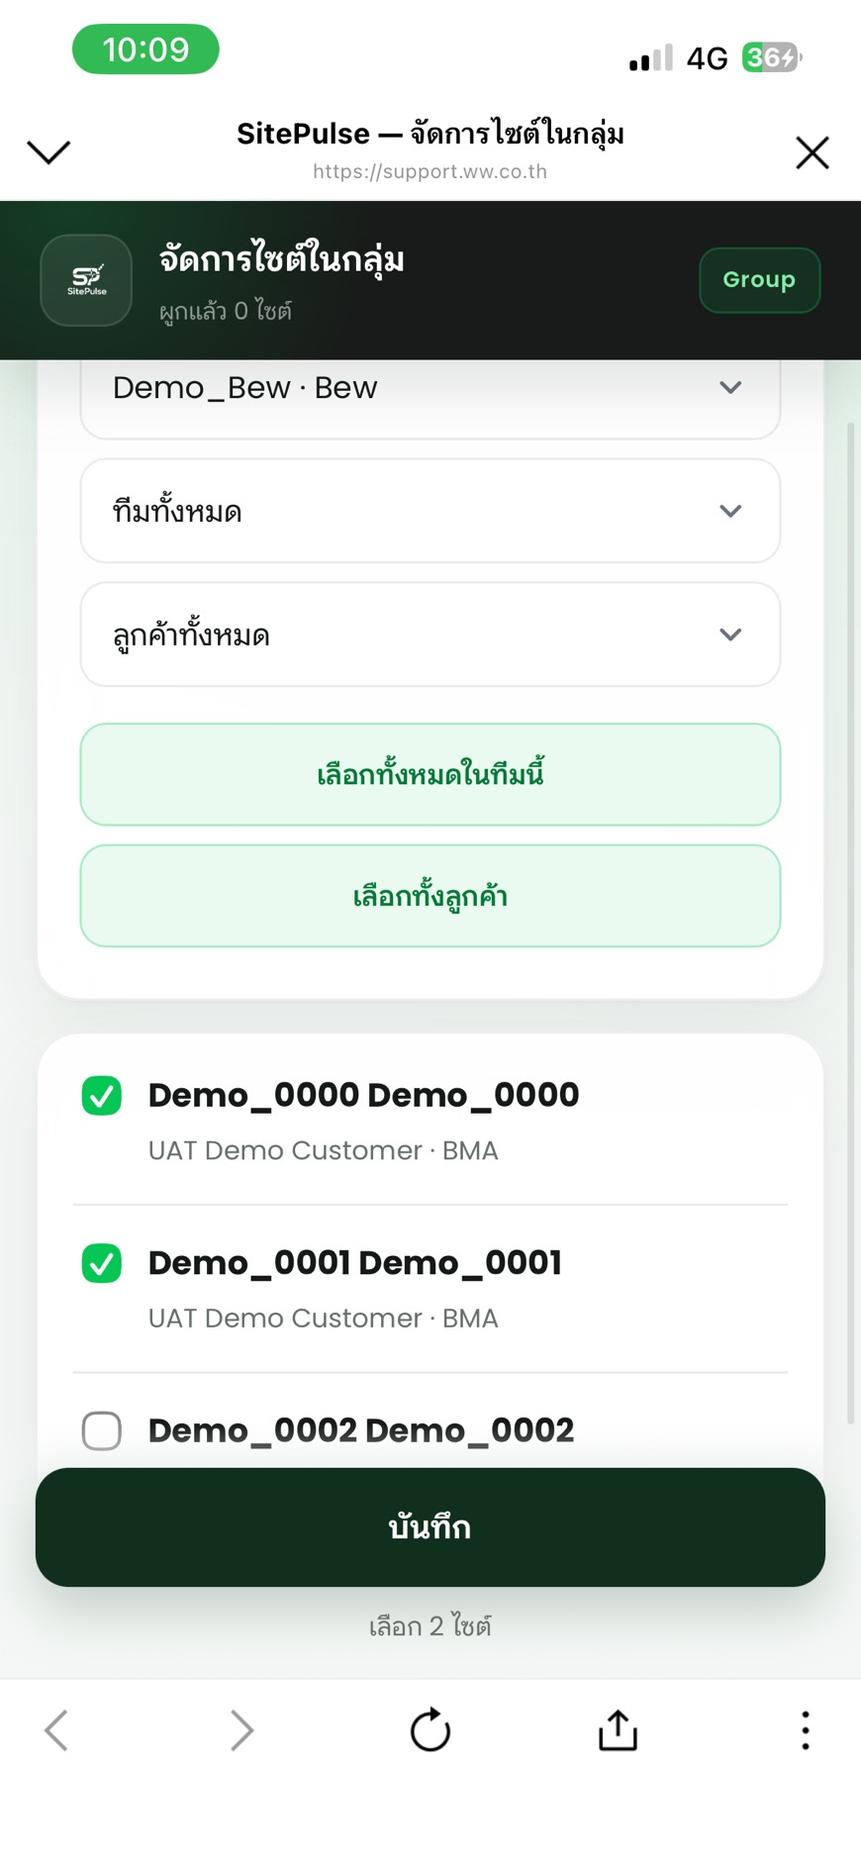
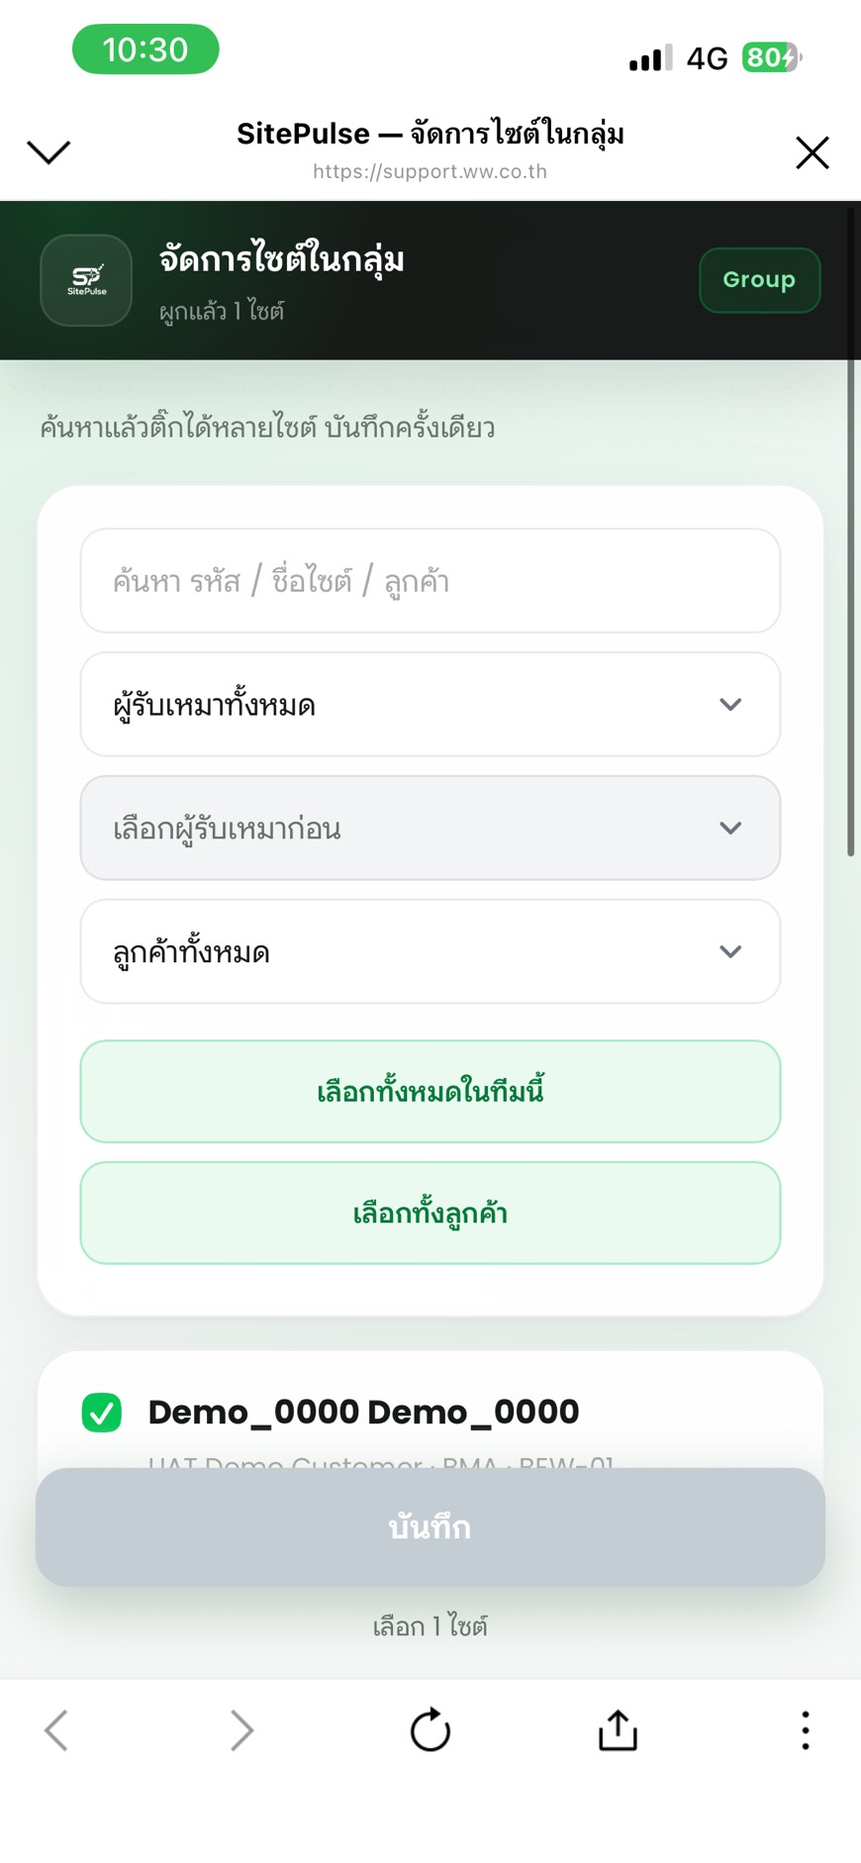
Update index.html with revised Check-In and Check-Out instructions; add new images for technician guides and enhance existing image captions for better clarity.

diff --git a/index.html b/index.html
@@ -529,11 +529,11 @@
     <header class="hero">
       <div class="eyebrow">SitePulse · คู่มือช่าง</div>
       <h1>วันทดสอบ (D-Day) ลำดับ 4–10</h1>
-      <p><b style="color:#7dffa8">งานของช่างจบที่ขั้น 8 (ออกงาน)</b> — ใช้แค่ LINE · ขั้น 5 / 7 / 9 / 10
+      <p><b style="color:#7dffa8">งานของช่างจบที่ขั้น 8 (ออกงาน)</b> — ใช้ LINE และหน้า LIFF · ขั้น 5 / 9 / 10
         เป็นของคนอื่นหรือระบบ · ตรวจงานเป็น <b style="color:#c4b5fd">Inspector → RPM</b>
         (เข้าคิวตรวจเมื่อปิดงาน 100% เท่านั้น)</p>
       <div class="roles">
-        <span class="pill you">เขียว = ช่างทำเอง (4, 6, 8)</span>
+        <span class="pill you">เขียว = ช่างทำเอง (4, 6, 7, 8)</span>
         <span class="pill other">อื่น = Admin / บอท / Inspector / RPM / ผู้บริหาร</span>
       </div>
     </header>
@@ -550,6 +550,10 @@
             <div>เข้างาน (Check-In)<div class="who-line">เลือกไซต์ · ติ๊กงาน · เปิดนอก LINE ได้ · ตำแหน่ง · % · รูปครบ 3 รูป</div>
             </div>
           </li>
+          <li><span class="tag">7</span>
+            <div>ดูผลใน LIFF / ดูประวัติ<div class="who-line">เห็นผลสำเร็จในหน้า LIFF · กลับแชทกดดูประวัติได้</div>
+            </div>
+          </li>
           <li><span class="tag">8</span>
             <div>ออกงาน (Check-Out) ← จบงานช่างที่นี่<div class="who-line">% ตามจริงได้ · ปิด 100% ต้องแนบครบ · ถูกส่งคืนค่อยเข้างานใหม่</div>
             </div>
@@ -561,10 +565,6 @@
         <ul>
           <li><span class="tag">5</span>
             <div>สร้างกลุ่ม Hub · ผูกไซต์ · อนุมัติช่าง<div class="who-line">Admin สร้างกลุ่ม+ลากบอท+ติ๊กไซต์ · Admin อนุมัติ (ระบบผูกทีมตามไซต์ที่ช่างเลือก) · ช่างเข้ากลุ่ม Hub</div>
-            </div>
-          </li>
-          <li><span class="tag bot">7</span>
-            <div>แจ้งกลุ่ม + แชทช่าง<div class="who-line">บอทส่ง Check-In/Out ทั้งกลุ่ม Hub และ LINE ส่วนตัวช่าง</div>
             </div>
           </li>
           <li><span class="tag rpm">9</span>
@@ -589,8 +589,8 @@
       <div class="flow-item you">
         <div class="n">6</div>Check-In<span class="who">ช่าง</span>
       </div>
-      <div class="flow-item">
-        <div class="n">7</div>แจ้งกลุ่ม+ช่าง<span class="who">บอท</span>
+      <div class="flow-item you">
+        <div class="n">7</div>ผล / ประวัติ<span class="who">ช่าง · LIFF</span>
       </div>
       <div class="flow-item you">
         <div class="n">8</div>Check-Out<span class="who">ช่าง · จบ</span>
@@ -683,26 +683,32 @@
           <li>สร้าง <b>กลุ่ม LINE</b> สำหรับ Hub / ไซต์นั้น</li>
           <li>ลากหรือเชิญ <b>Bot SitePulse</b> เข้ากลุ่ม</li>
           <li>ในกลุ่ม พิมพ์ <b>เมนู</b> → กด <b>เปิดหน้าจัดการไซต์</b> (บอทส่งลิงก์)</li>
-          <li>ในหน้าเว็บ: กรองผู้รับเหมา/ทีมได้ → <b>ติ๊กไซต์</b> ที่ต้องการ → กด <b>บันทึก</b></li>
+          <li>หน้า <b>จัดการไซต์ในกลุ่ม</b>: ค้นหาด้วยรหัส / ชื่อไซต์ / ลูกค้า หรือกรองผู้รับเหมา → ทีม → ลูกค้า</li>
+          <li><b>ติ๊กไซต์ที่จะเพิ่ม</b> ได้หลายไซต์ · คงติ๊กไซต์เดิมที่ยังต้องการไว้ → กด <b>บันทึก</b> ครั้งเดียว</li>
+          <li>เห็นหน้า <b>บันทึกแล้ว</b> พร้อมจำนวนไซต์รวม → กลับกลุ่ม LINE เพื่อตรวจข้อความ <b>บันทึกไซต์ในกลุ่มแล้ว</b> ซึ่งแสดงไซต์ที่เพิ่มและไซต์ในกลุ่มตอนนี้</li>
           <li>ถ้าต้องการลบไซต์ออกจากกลุ่ม: เข้าหน้าจัดการไซต์อีกครั้ง → <b>เอาติ๊กออก</b> → กด <b>บันทึก</b></li>
         </ol>
-        <div class="infobox">ผูกไซต์ทำผ่านหน้าลิงก์ (ติ๊กแล้วบันทึก) — <b>ไม่ต้องพิมพ์รหัสผู้รับเหมาหาบอท</b> · กรองตามผู้รับเหมาในหน้านั้นได้</div>
+        <div class="infobox">ผูกไซต์ทำผ่านหน้าลิงก์ (ติ๊กแล้วบันทึก) — <b>ไม่ต้องพิมพ์รหัสผู้รับเหมาหาบอท</b> · เลือกหลายไซต์ได้ หรือใช้ปุ่ม <b>เลือกทั้งหมดในทีมนี้ / เลือกทั้งลูกค้า</b> · ตรวจรายการที่เลือกก่อนบันทึก</div>
         <div class="shots">
           <figure class="shot">
             <img src="technician-guide-shots/admin-choose-bot.jpg" alt="เลือก Bot SitePulse">
             <figcaption class="cap">ลาก/เชิญบอทเข้ากลุ่ม<small>ค้นหา Bot SitePulse</small></figcaption>
           </figure>
           <figure class="shot">
-            <img src="technician-guide-shots/admin-group-menu.jpg" alt="เมนูกลุ่ม / ลิงก์จัดการไซต์">
-            <figcaption class="cap">เมนูในกลุ่ม<small>กด “เปิดหน้าจัดการไซต์”</small></figcaption>
+            <img src="technician-guide-shots/admin-group-menu.jpg" alt="พิมพ์เมนูในกลุ่ม LINE เพื่อเปิดหน้าจัดการไซต์">
+            <figcaption class="cap">1 · เปิดจากกลุ่ม LINE<small>พิมพ์ “เมนู” → กด “เปิดหน้าจัดการไซต์”</small></figcaption>
           </figure>
           <figure class="shot">
-            <img src="technician-guide-shots/admin-group-liff-selected.jpg" alt="ติ๊กหลายไซต์">
-            <figcaption class="cap">หน้าจัดการไซต์<small>กรองได้ · ติ๊กแล้วบันทึก = ผูก · เอาติ๊กออกแล้วบันทึก = ลบ</small></figcaption>
+            <img src="technician-guide-shots/admin-group-liff-selected.jpg" alt="หน้าจัดการไซต์ในกลุ่ม พร้อมค้นหาและตัวกรองผู้รับเหมา ทีม ลูกค้า">
+            <figcaption class="cap">2 · ค้นหาและติ๊กไซต์<small>เลือกได้หลายไซต์ · คงไซต์เดิมที่ต้องการไว้ · เพิ่มไซต์แล้วกด “บันทึก”</small></figcaption>
           </figure>
           <figure class="shot">
-            <img src="technician-guide-shots/line-bot-group-sites-saved.jpg" alt="บอทยืนยันในกลุ่ม">
-            <figcaption class="cap">บอทยืนยันในกลุ่ม<small>รายการไซต์ที่ผูกแล้ว</small></figcaption>
+            <img src="technician-guide-shots/admin-group-liff-save-success.jpg" alt="หน้าบันทึกแล้ว รวม 2 ไซต์ในกลุ่ม">
+            <figcaption class="cap">3 · บันทึกสำเร็จในหน้าเว็บ<small>แสดงจำนวนไซต์รวมในกลุ่ม · ตัวอย่างรวม 2 ไซต์</small></figcaption>
+          </figure>
+          <figure class="shot">
+            <img src="technician-guide-shots/line-bot-group-sites-saved.jpg" alt="บอทแจ้งบันทึกไซต์ในกลุ่มแล้ว พร้อมไซต์ที่เพิ่มและรายการไซต์ปัจจุบัน">
+            <figcaption class="cap">4 · ตรวจผลในกลุ่ม LINE<small>บอทแจ้งไซต์ที่เพิ่ม พร้อมรายการ “ไซต์ในกลุ่มตอนนี้”</small></figcaption>
           </figure>
         </div>
       </div>
@@ -731,13 +737,13 @@
         <ol class="howto">
           <li>หลังอนุมัติแล้ว ช่างต้อง <b>เข้ากลุ่ม LINE ของ Hub / ไซต์</b> ที่จะทำงาน</li>
           <li>ในกลุ่มจะเห็นบอทส่งรายละเอียดงาน (Check-In / Check-Out)</li>
-          <li>บอทส่ง <b>ทั้งในกลุ่ม Hub และแชทส่วนตัวของช่าง</b> (ตอนเข้างาน/ออกงาน)</li>
+          <li>ผล Check-In / Check-Out ของช่างแสดงใน <b>หน้า LIFF</b> ทันที · กลับแชทแล้วกด <b>ดูประวัติ</b> เพื่อตรวจย้อนหลังได้</li>
         </ol>
         <div class="tip"><strong>หมายเหตุตรวจงาน:</strong> ตอน Inspector/RPM ตรวจหรือส่งคืน — ระบบแจ้ง <b>แชทส่วนตัว (DM)</b> เป็นหลัก ไม่โพสต์เข้ากลุ่ม</div>
         <div class="shots">
           <figure class="shot">
-            <img src="technician-guide-shots/hub-checkin-checkout-cards.jpg" alt="การ์ดในกลุ่ม/แชทช่าง">
-            <figcaption class="cap">การ์ด CHECK-OUT สำเร็จ<small>แจ้งในกลุ่ม Hub และแชทส่วนตัวช่าง</small></figcaption>
+            <img src="technician-guide-shots/hub-checkin-checkout-cards.jpg" alt="การ์ดแจ้ง Check-Out ในกลุ่ม Hub">
+            <figcaption class="cap">การแจ้ง Check-Out ในกลุ่ม Hub<small>ผลของช่างดูใน LIFF และประวัติ</small></figcaption>
           </figure>
           <figure class="shot">
             <img src="technician-guide-shots/hub-checkin-card.jpg" alt="การ์ด CHECK-IN ในกลุ่ม Hub">
@@ -827,6 +833,10 @@
             </figcaption>
           </figure>
           <figure class="shot">
+            <img src="technician-guide-shots/ci-photo-source.jpg" alt="เลือกวิธีแนบรูป Check-In ถ่ายรูปหรือเลือกจากคลัง">
+            <figcaption class="cap">กดช่องรูปเพื่อแนบ<small>ถ่ายรูป หรือเลือกจากคลัง · รูปต้องตรงรายการและมี Timestamp</small></figcaption>
+          </figure>
+          <figure class="shot">
             <img src="technician-guide-shots/ci-photo-stamp.jpg" alt="รูปที่ประทับเวลา พิกัด ที่อยู่">
             <figcaption class="cap">รูปมีตราประทับ<small>เวลา · พิกัด · ที่อยู่ · ระยะจากไซต์</small></figcaption>
           </figure>
@@ -835,7 +845,7 @@
 
       <div class="substep">
         <h3><span>D</span> ในรัศมี ✓ / นอก ✗</h3>
-        <div class="okbox">✓ <b>อยู่ในรัศมีของไซต์ (ไม่เกิน 200 ม.)</b> → เข้างานสำเร็จ · เห็นหน้า “Check-In สำเร็จ” พร้อมเลขอ้างอิง · กลุ่มไซต์ได้รับการแจ้ง</div>
+        <div class="okbox">✓ <b>อยู่ในรัศมีของไซต์ (ไม่เกิน 200 ม.)</b> → เห็นหน้า <b>“Check-In สำเร็จ” ใน LIFF</b> พร้อมจำนวนรายการ ไซต์ งาน และเวลาเช็คอิน · บันทึกเข้างานเรียบร้อยแล้ว</div>
         <div class="errbox">✗ <b>อยู่นอกพื้นที่</b> → ไม่ผ่าน · ระบบบอกระยะห่าง · เดินเข้าใกล้แล้วลองใหม่</div>
         <div class="shots">
           <figure class="shot">
@@ -844,7 +854,7 @@
           </figure>
           <figure class="shot">
             <img src="technician-guide-shots/ci-success.jpg" alt="Check-In สำเร็จ">
-            <figcaption class="cap">Check-In สำเร็จ ✓<small>กด Check-In ต่อ หรือ Check-Out เมื่อเลิกงาน</small>
+            <figcaption class="cap">Check-In สำเร็จใน LIFF ✓<small>ตรวจไซต์ · งาน · เวลา · กลับแชทเพื่อกดดูประวัติ</small>
             </figcaption>
           </figure>
         </div>
@@ -867,15 +877,26 @@
     <!-- 7 -->
     <section class="step" id="s7">
       <div class="step-head">
-        <div class="step-num bot">7</div>
+        <div class="step-num you">7</div>
         <div>
-          <h2>แจ้งเตือนกลุ่ม + แชทช่าง <span class="badge wait">ของระบบ/บอท · ช่างไม่กดอะไร</span></h2>
-          <div class="meta">หลัง Admin ผูกไซต์แล้ว — บอทส่ง Check-In/Out ทั้งกลุ่ม Hub และ LINE ส่วนตัวช่าง</div>
+          <h2>ดูผลใน LIFF และดูประวัติ <span class="badge you">ช่างตรวจผลได้เอง</span></h2>
+          <div class="meta">ใช้ได้ทั้ง Check-In และ Check-Out · ผลสำเร็จแสดงในหน้าที่ทำรายการ</div>
         </div>
       </div>
-      <div class="infobox">ช่างไม่ต้องกดอะไรเพิ่ม — ดูรายละเอียดใน <b>กลุ่ม Hub</b> และ/หรือ <b>แชทส่วนตัว</b><br>
-        หลังออกงานที่ <b>100%</b> จะเห็นการ์ด <b>งานครบแล้ว · รอ Inspector แล้ว RPM</b><br>
-        ถ้า % ยังไม่ถึง 100 แค่บันทึกความคืบหน้า <b>ไม่เข้าคิวตรวจ</b> · ตอนตรวจ/ส่งคืนแจ้ง DM เป็นหลัก</div>
+      <ol class="howto">
+        <li>หลังส่งรายการ ให้ดูหน้า <b>Check-In สำเร็จ</b> หรือ <b>Check-Out สำเร็จ</b> ใน LIFF พร้อมรายละเอียดรายการที่บันทึก</li>
+        <li>กลับแชทบอท → กด <b>Check-In</b> หรือ <b>Check-Out</b> จากเมนู → กด <b>ดูประวัติเช็คอิน / ดูประวัติเช็คเอ้า</b> ในการ์ด (บางการ์ดใช้ชื่อ <b>ดูประวัติ</b>)</li>
+        <li>หน้า <b>สถานะและประวัติ</b> แสดงทั้ง <b>ยังไม่เช็คเอ้า</b> และ <b>ประวัติที่ผ่านมา</b> · เลือกวันนี้ / ทุกวัน หรือกรองวันที่และไซต์ได้</li>
+      </ol>
+      <div class="okbox"><strong>เห็นผลสำเร็จใน LIFF = บันทึกแล้ว</strong>ไม่ต้องส่งข้อความยืนยันหรือรอข้อความสำเร็จในแชทส่วนตัว · หากไม่แน่ใจว่าบันทึกแล้วหรือยัง ให้ตรวจที่ <b>ดูประวัติ</b></div>
+      <div class="shots">
+        <figure class="shot">
+          <img src="technician-guide-shots/work-status-history.jpg" alt="หน้าสถานะและประวัติ พร้อมตัวกรองวันที่ ไซต์ และรายการยังไม่เช็คเอ้า">
+          <figcaption class="cap">สถานะและประวัติ<small>เลือกวัน / ไซต์ · ตรวจเวลาเข้างาน · กด “เช็คเอ้ารายการนี้” สำหรับงานที่ยังค้างได้</small></figcaption>
+        </figure>
+      </div>
+      <div class="infobox">บอทยังแจ้ง Check-In / Check-Out ใน <b>กลุ่ม Hub ที่ผูกไซต์</b> แยกจากผลใน LIFF ของช่าง<br>
+        ออกงานที่ <b>100%</b> และแนบหลักฐานครบ → เข้าคิว <b>Inspector → RPM</b> · ถ้ายังไม่ถึง 100% เป็นการบันทึกความคืบหน้า <b>ไม่เข้าคิวตรวจ</b></div>
     </section>
 
     <!-- 8 -->
@@ -893,6 +914,7 @@
         <li>เลือก <b>% ความคืบหน้าจริง</b> (ไม่จำเป็นต้องเป็น 100% ทุกวัน)</li>
         <li>แนบรูปได้ตามต้องการ · ถ้าปิดงาน <b>100%</b> ต้องแนบรูป/เอกสารครบตามรายการงาน</li>
         <li>กด <b>ยืนยัน Check-Out</b></li>
+        <li>ตรวจผล <b>Check-Out สำเร็จ</b> ใน LIFF · ดูจำนวนที่ออกงานแล้วและรายการที่ยังค้าง · เปิด <b>ดูประวัติ</b> จากแชทเพื่อตรวจย้อนหลังได้</li>
       </ol>
       <div class="tip"><strong>มีเข้างานค้าง</strong> ต้องออกงานก่อนถึงจะเข้างานใหม่ได้ · ถ้าค้างที่ไซต์อื่น จะเข้างานไซต์ใหม่ไม่ได้</div>
       <div class="shots">
@@ -905,6 +927,10 @@
           <figcaption class="cap">หน้ารายการงานค้าง<small>อัปเดตทีละงานได้</small></figcaption>
         </figure>
         <figure class="shot">
+          <img src="technician-guide-shots/co-actual-progress.jpg" alt="เลือกความคืบหน้าจริงก่อน Check-Out โดยปิดงาน 100 เปอร์เซ็นต์ต้องแนบเอกสารครบ">
+          <figcaption class="cap">เลือกความคืบหน้าจริง<small>ตัวอย่างเลือก 100% · ยังขาดเอกสาร → ปุ่มบันทึกยังใช้ไม่ได้</small></figcaption>
+        </figure>
+        <figure class="shot">
           <img src="technician-guide-shots/co-hub-ready.jpg" alt="ฟอร์ม Check-Out พร้อมยืนยัน">
           <figcaption class="cap">ยืนยันตำแหน่ง → ยืนยัน Check-Out<small>ระบบบันทึกตำแหน่ง · ไม่บล็อกรัศมี</small></figcaption>
         </figure>
@@ -914,11 +940,7 @@
         </figure>
         <figure class="shot">
           <img src="technician-guide-shots/co-success.jpg" alt="Check-Out สำเร็จ">
-          <figcaption class="cap">ออกงานสำเร็จ ✓<small>ระบบบันทึกชั่วโมง/ความคืบหน้า</small></figcaption>
-        </figure>
-        <figure class="shot">
-          <img src="technician-guide-shots/co-success-waiting-verify.jpg" alt="งานครบรอ Verify">
-          <figcaption class="cap">ถ้า 100% → รอตรวจ<small>Inspector แล้วตามด้วย RPM</small></figcaption>
+          <figcaption class="cap">ออกงานสำเร็จใน LIFF ✓<small>ตรวจผลแล้วดูย้อนหลังได้จากประวัติ · 100% พร้อมหลักฐานครบ → รอ Inspector แล้ว RPM</small></figcaption>
         </figure>
       </div>
     </section>
